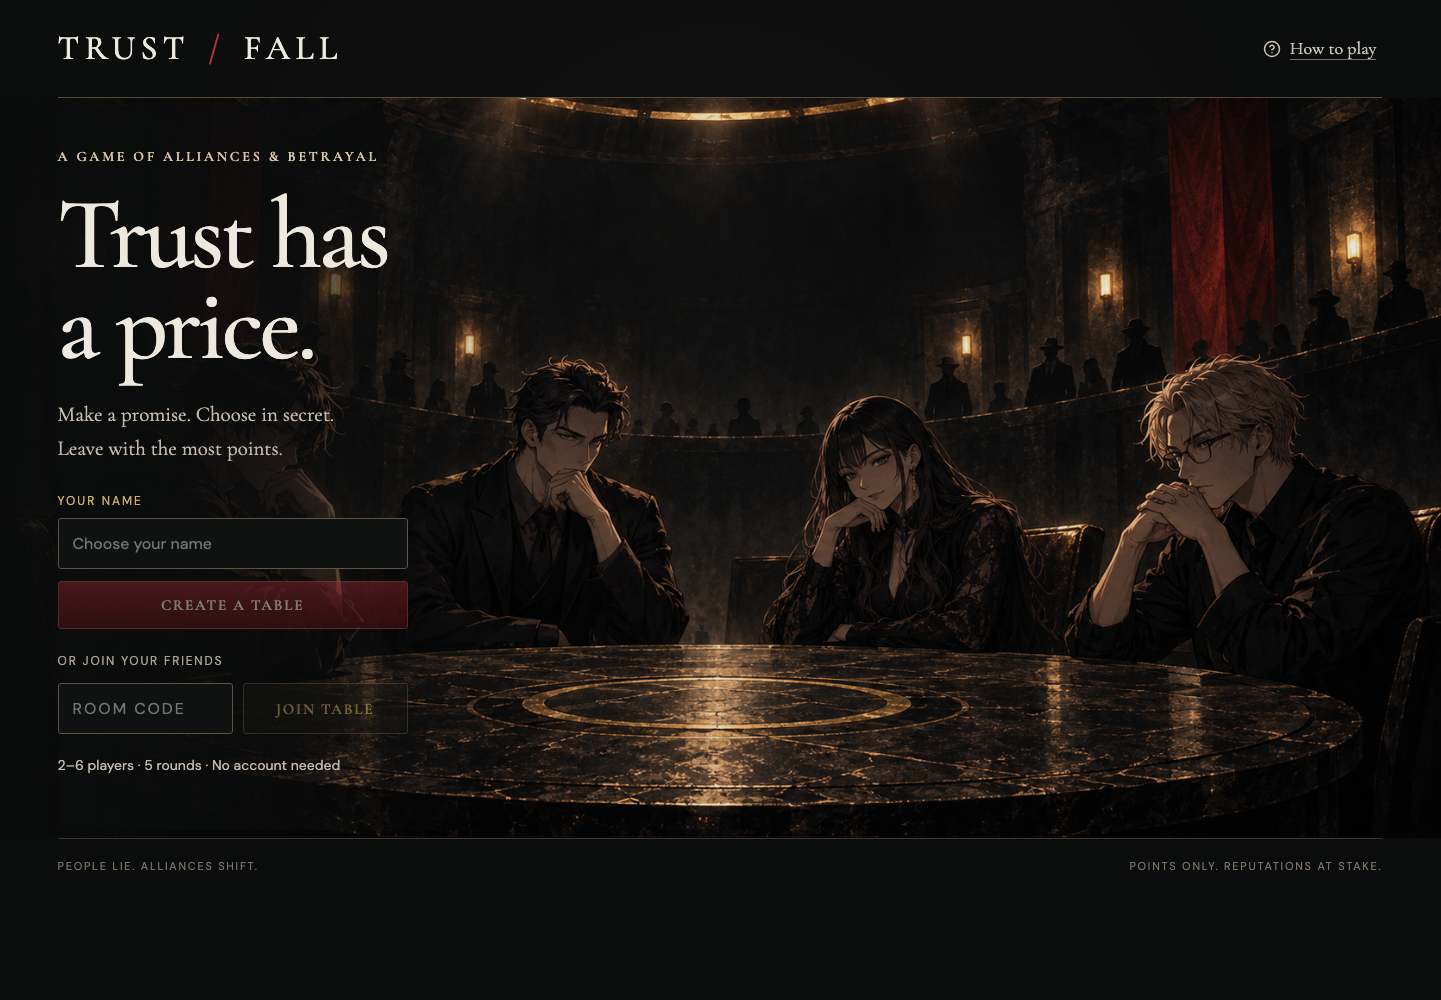
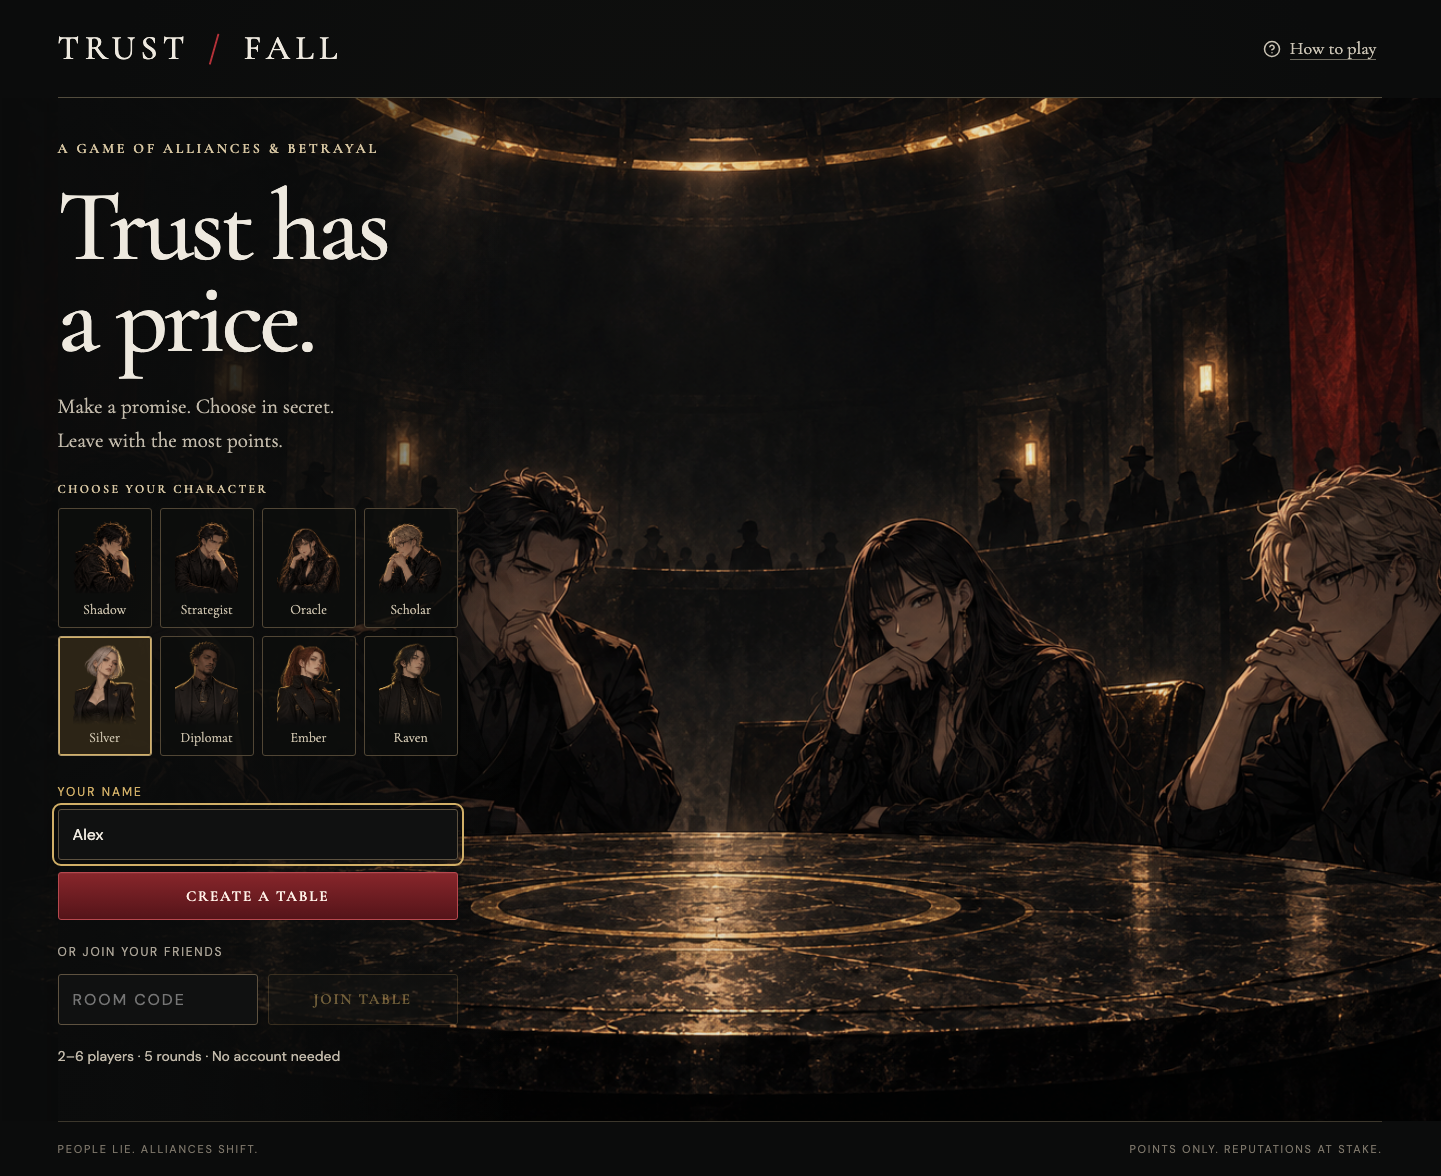
Document character selection with updated screenshots

diff --git a/progress.md b/progress.md
@@ -8,3 +8,5 @@ Full two-session test completed all five rounds, final 170–120 score and remat
 Fidelity ledger: compared approved mockup and rendered screenshots using view_image at 1536×1024 and 390×844. (1) Charcoal/gold/crimson palette retained. (2) Serif brand, headline, and card type retained. (3) Header, central table, right chat rail, and bottom outcomes match hierarchy. (4) Original production scene replaces raster mockup chrome; portrait edges softened. (5) Cooperate/betray and lock controls match functionality and styling. (6) Phone collapses chat below choices for readable play; no overflow. Copy diff: preserved brand, headline, phase, table talk, secret choice, cooperate/betray, lock choice, and payoff labels. Intentional extensions: explicit partner, privacy hint, join/lobby/reveal/winner/rules states; ornamental mockup slogans removed. Real player count and real scores replace sample data. No unresolved material visual mismatches; original art is not a pixel-identical reproduction.
 Completed rerun: all five rounds, privacy, chat, refresh recovery, final winner and rematch passed with a clean console. Public deployment succeeded.
 Follow-up: created private GitHub repository wuisabel-gif/trust-fall; preserved existing history. Small commits add transparent portrait art and integrate sprite positions. Portrait smoke test passed desktop 1536×1024 and mobile 390×844, two-player chat, private choices, reveal, reload recovery and console health. Inspected screenshots; dedicated busts eliminate room-image crop rectangles. No horizontal overflow. Built-in imagegen prompt and asset paths recorded in docs/art-assets.md.
+Character selection: generated four more original transparent portraits, bringing the picker to eight. Server validates the character index on create/join/lobby change, stores it in shared room JSON, resets readiness on change, and supplies fallback appearances for older rooms. UI offers entry picker and lobby dialog. No DB migration required.
+Verification: two isolated contexts at 1440×1100 and 390×844 confirmed all eight options, selection, create/join persistence, synchronized lobby changes, ready reset, refresh persistence, invalid index rejection, gameplay and 50–0 payoff. No unexpected console errors. Fixed mobile art overlay stacking and entry horizontal overflow. Browser plugin unavailable; Playwright used. Screenshot comparisons confirmed dark/gold/crimson palette, serif typography, portrait sprite framing, selected controls, and mobile readability. Required character-picker copy is an intentional addition to the approved design.

diff --git a/README.md b/README.md
@@ -10,7 +10,7 @@ The GitHub Pages link opens the live game. Multiplayer state and scoring run on 
 
 ### 1. Enter your name
 
-Create a new table or join a friend’s table. No login or installation is required.
+Choose one of eight character portraits, enter your name, then create a new table or join a friend’s table. No login or installation is required.
 
 ![Game entry screen](docs/screenshots/01-entry.png)
 
@@ -25,6 +25,10 @@ Enter your name and the host’s five-character room code, then click **Join tab
 Players on separate devices appear at the same table. Everyone clicks **I’m ready**, then the host clicks **Start game**.
 
 ![Two players successfully joined the same room](docs/screenshots/03-room-lobby.png)
+
+You can also click **Change character** in the waiting room. Saving a new look updates it for everyone and resets your ready status.
+
+![Choosing a character in the waiting room](docs/screenshots/05-character-picker.png)
 
 ### 4. Negotiate and choose in secret
 
